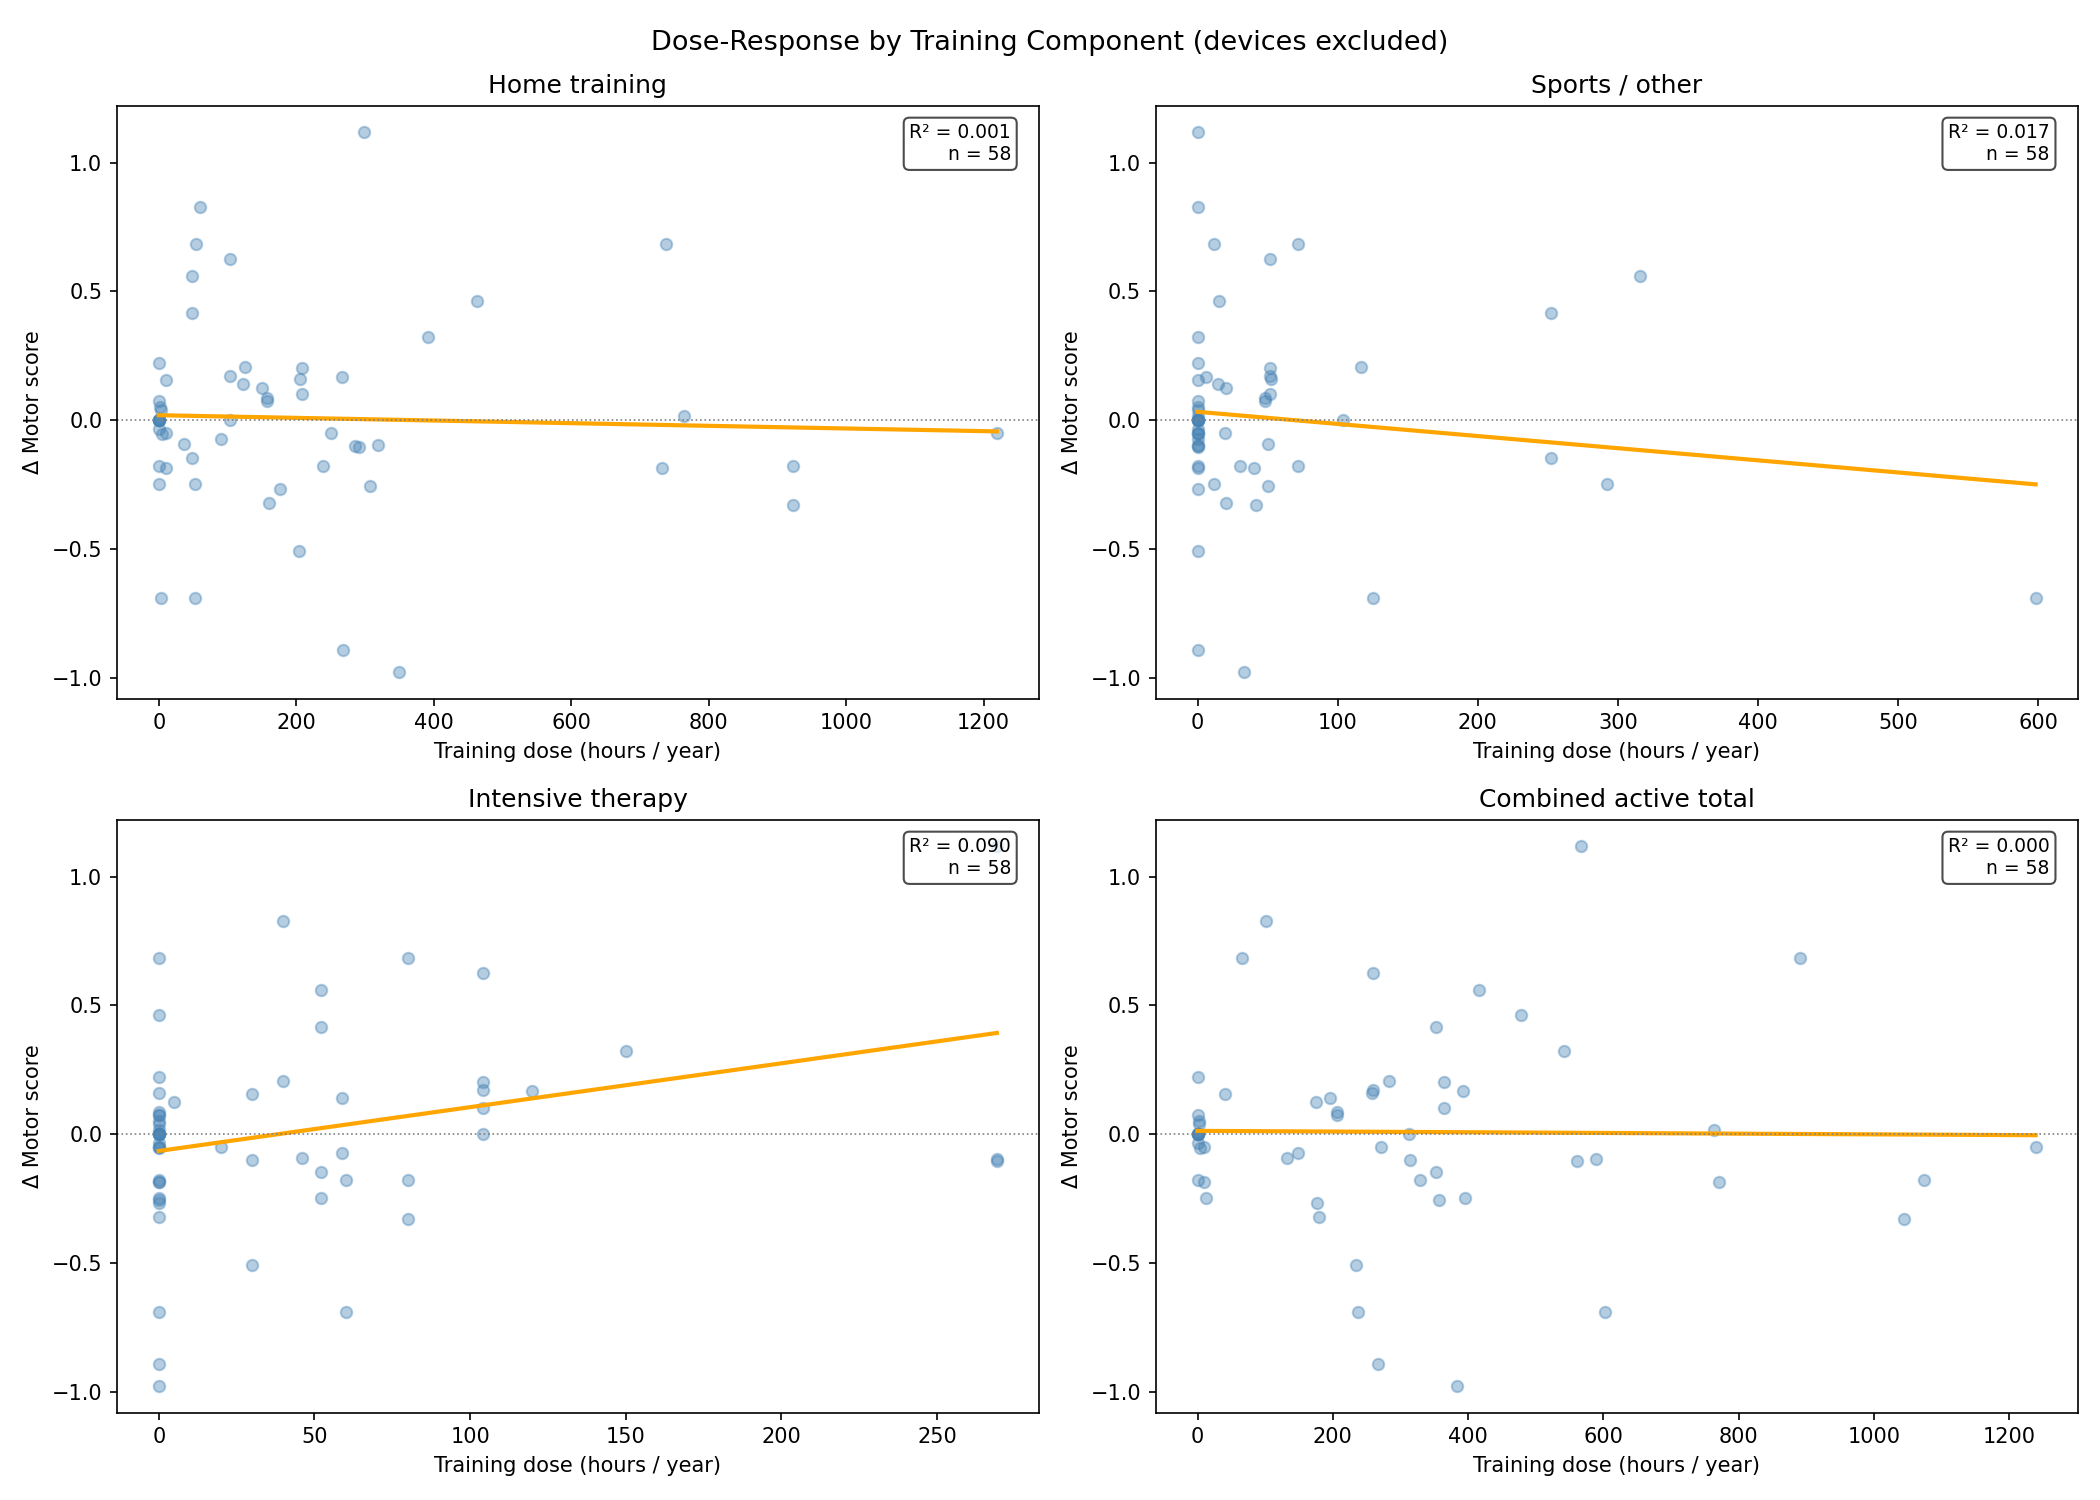
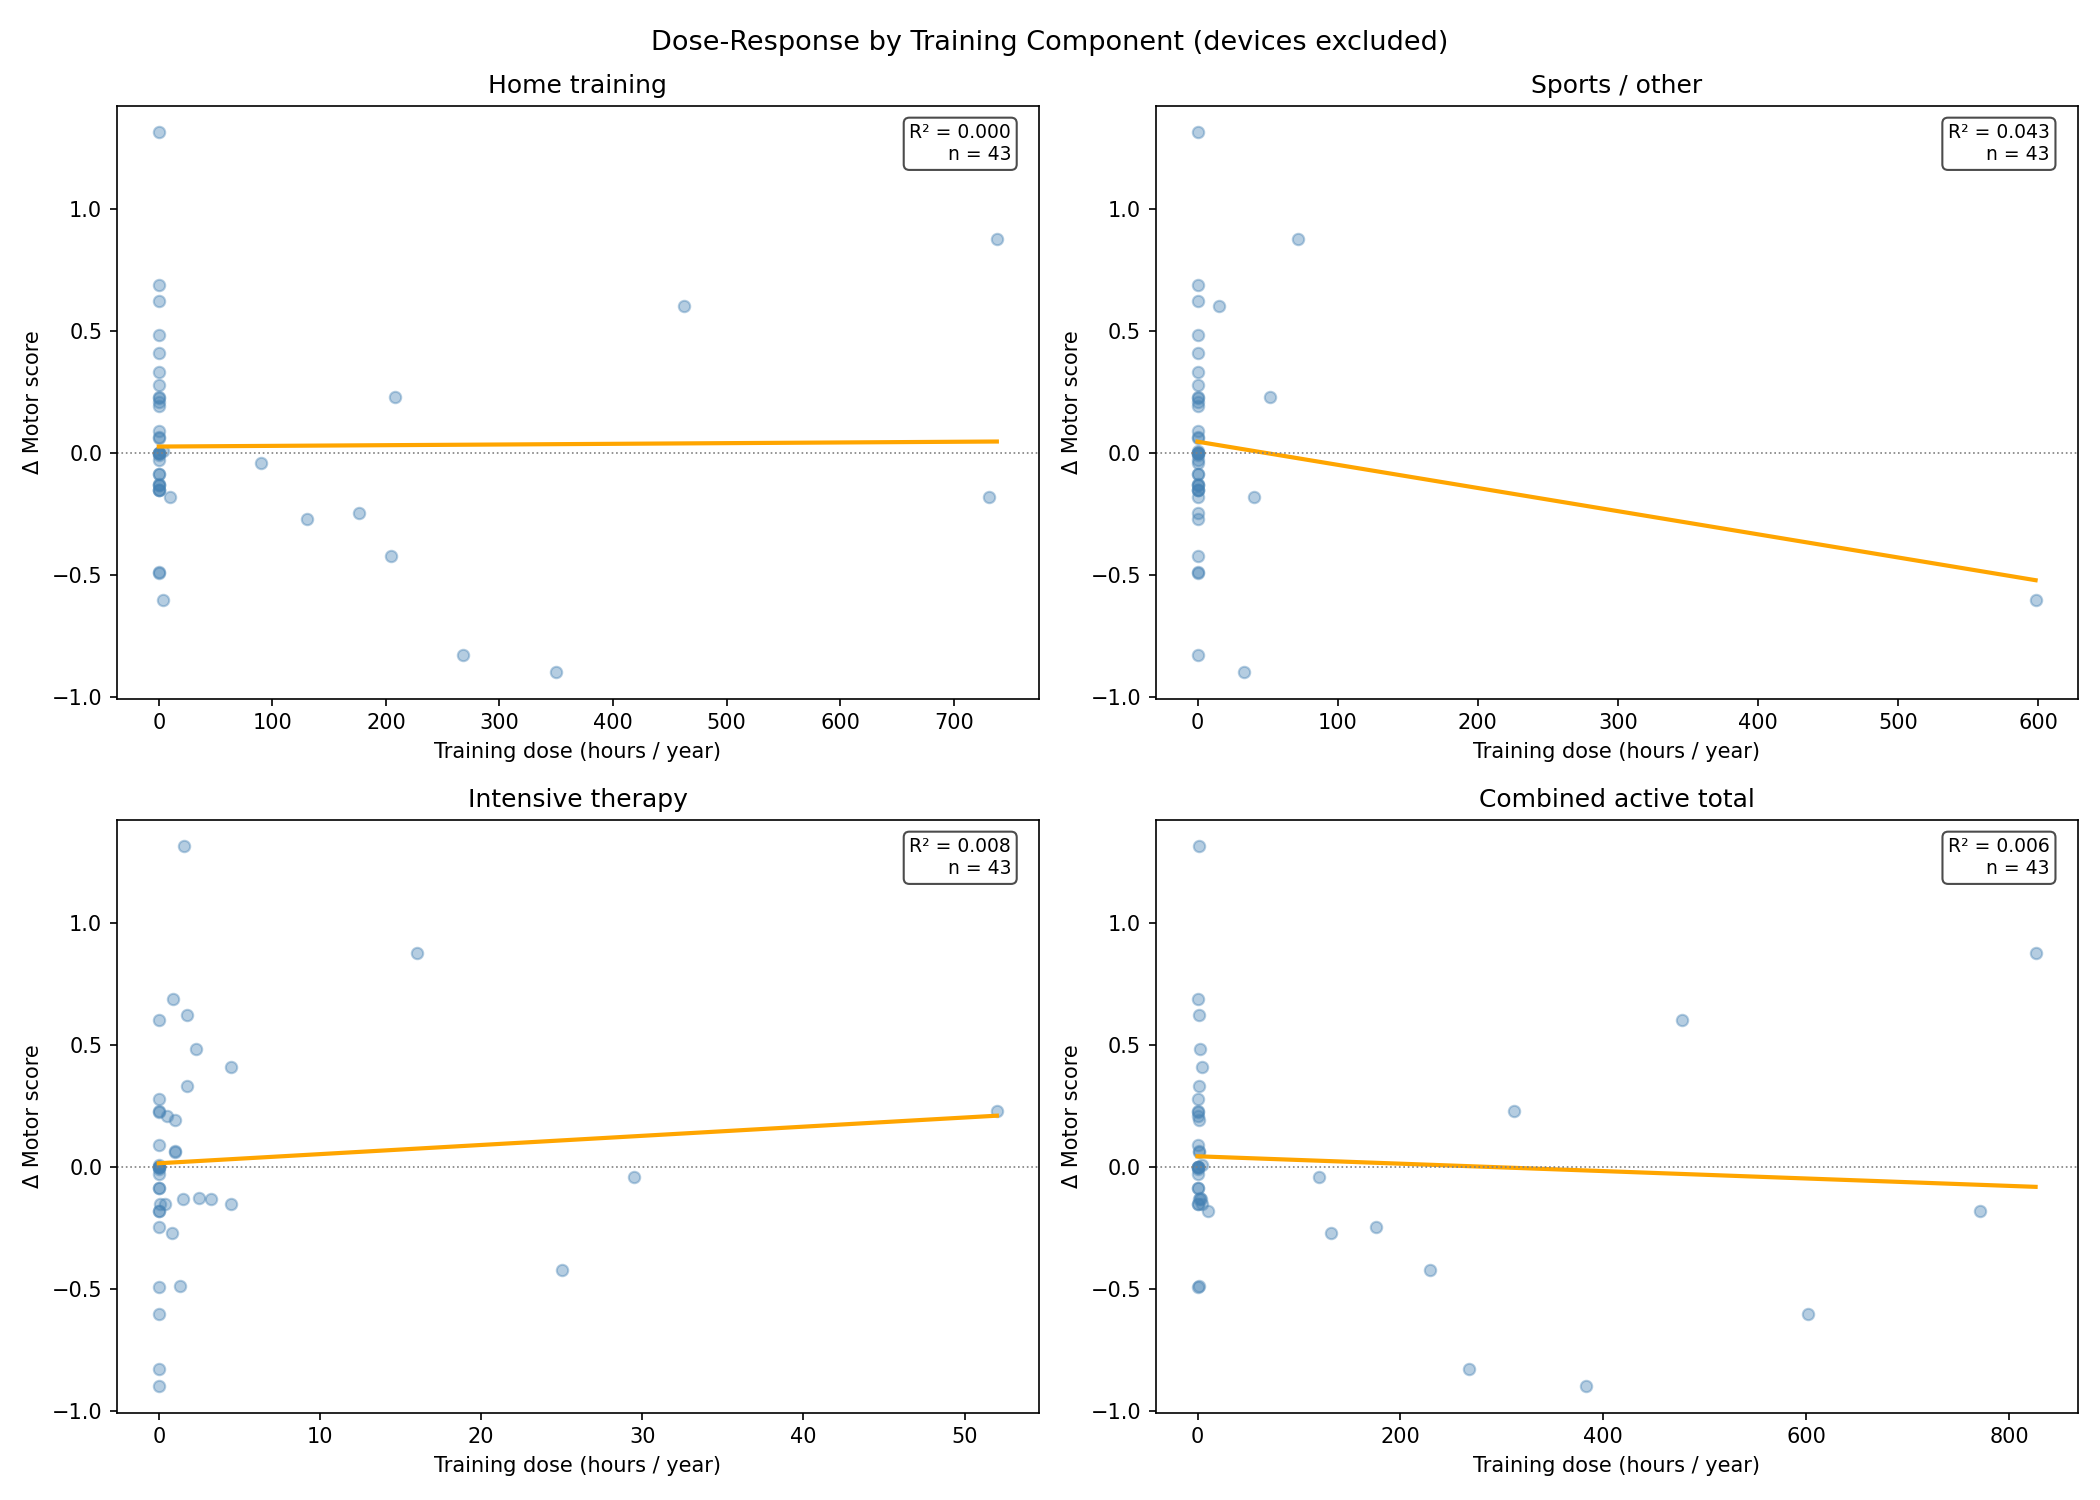
tried fixing after database script is run

diff --git a/src/preprocessing/preprocessing_it.py b/src/preprocessing/preprocessing_it.py
@@ -9,40 +9,16 @@ sys.path.append(str(Path(__file__).resolve().parents[1]))
 def extract_neurohab_center_hours(struct):
     if struct is None:
         return []
-
-    struct_dict = dict(struct) if isinstance(struct, dict) else {}
-
     rows = []
-
-    for center_name, info in struct_dict.items():
-
-        if not info:
-            rows.append({
-                "center_name": center_name,
-                "total_hours": 0.0
-            })
-            continue
-
-        hours = info.get("hours", 0)
-        days = info.get("days", 1)
-        weeks = info.get("weeks", 1)
-
+    for center_name, info in (struct if isinstance(struct, dict) else {}).items():
         try:
-            total_hours = (
-                float(hours or 0)
-                * float(days or 0)
-                * float(weeks or 0)
-            )
+            hours = float((info or {}).get("hours") or 0)
+            weeks = float((info or {}).get("weeks") or 0)
+            total_hours = hours * weeks   # hours/week × weeks/year
         except (TypeError, ValueError):
             total_hours = 0.0
-
-        rows.append({
-            "center_name": center_name,
-            "total_hours": total_hours
-        })
-
+        rows.append({"center_name": center_name, "total_hours": total_hours})
     return rows
-
 
 # --- extract neurorehabilitation center hours for every child every year ----
 def process_neurohab_hours_per_user_per_age(df: pl.DataFrame) -> pl.DataFrame:

diff --git a/src/preprocessing/preprocessing_ht.py b/src/preprocessing/preprocessing_ht.py
@@ -14,29 +14,17 @@ sys.path.append(str(Path(__file__).resolve().parents[1]))
 def extract_hometraining_hours(training):
     if training is None:
         return 0.0
-
-    training_dict = dict(training) if isinstance(training, dict) else {}
-    details = training_dict.get("details", {})
+    details = (training if isinstance(training, dict) else {}).get("details", {})
     total_hours = 0.0
-
-    for training_info in details.values():
-        if not training_info:
+    for info in details.values():
+        if not info:
             continue
-
-        hours = training_info.get("hours", 0)
-        days = training_info.get("days", 1)
-        weeks = training_info.get("weeks", 1)
-
         try:
-            hours = float(hours or 0)
-            days = float(days or 0)
-            weeks = float(weeks or 0)
-
-            total_hours += hours * days * weeks
-
+            hours = float(info.get("hours") or 0)
+            weeks = float(info.get("weeks") or 0)
+            total_hours += hours * weeks   # hours/week × weeks/year
         except (TypeError, ValueError):
             pass
-
     return total_hours
 
 def extract_device_hours(devices):

diff --git a/src/preprocessing/master_preprocessing.py b/src/preprocessing/master_preprocessing.py
@@ -73,17 +73,14 @@ def _build_device_binary(home_training_df: pl.DataFrame) -> pl.DataFrame:
 
         details = {}
         if isinstance(devices_raw, dict):
-            details = devices_raw.get("details", {}) or {}
-
-        for device_name in details:
-            if device_name:
-                rows.append(
-                    {
+            device_names = devices_raw.get("devices", []) or []
+            for device_name in device_names:
+                if device_name and device_name != "None":
+                    rows.append({
                         "introductory_id": intro_id,
                         "age": age,
                         "device_name": str(device_name),
-                    }
-                )
+                    })
 
     if not rows:
         return pl.DataFrame(
